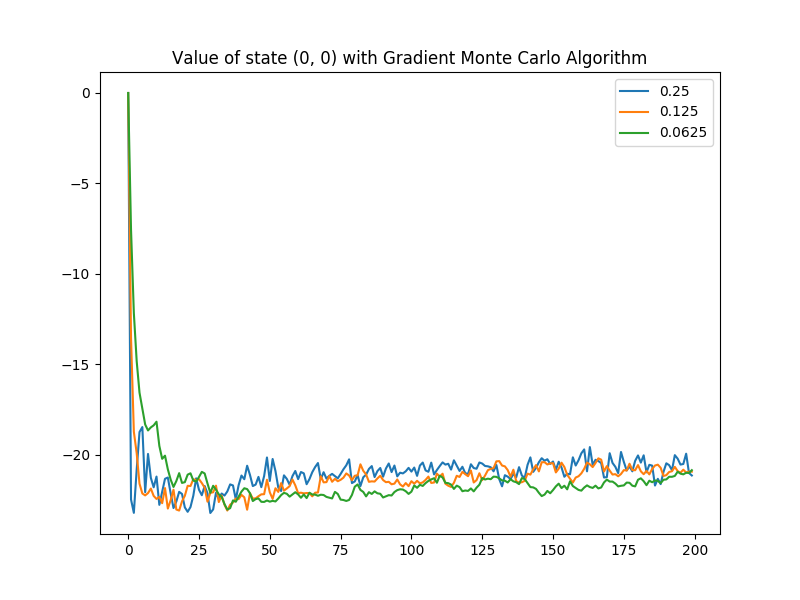
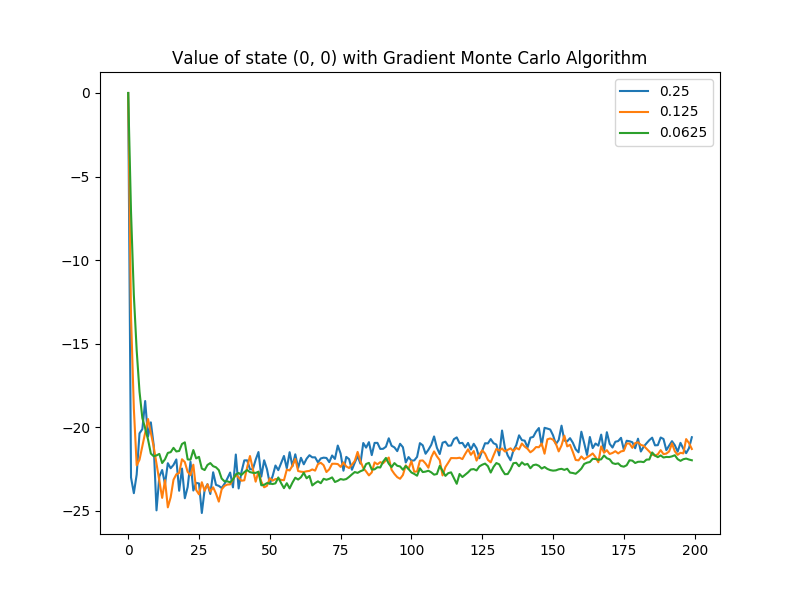
Uniform offsett

diff --git a/modelFree.py b/modelFree.py
@@ -166,7 +166,7 @@ gamma = 0.9
 decay_factor_list = [0]
 
 pol = Policy(0.9, 1)
-disp_vector = np.array([1, 2])
+disp_vector = np.array([1, 1])
 tile = TileCoding(5, 10, disp_vector)
 model = Model(inp_size)
 ret = ReturnCalculator()
